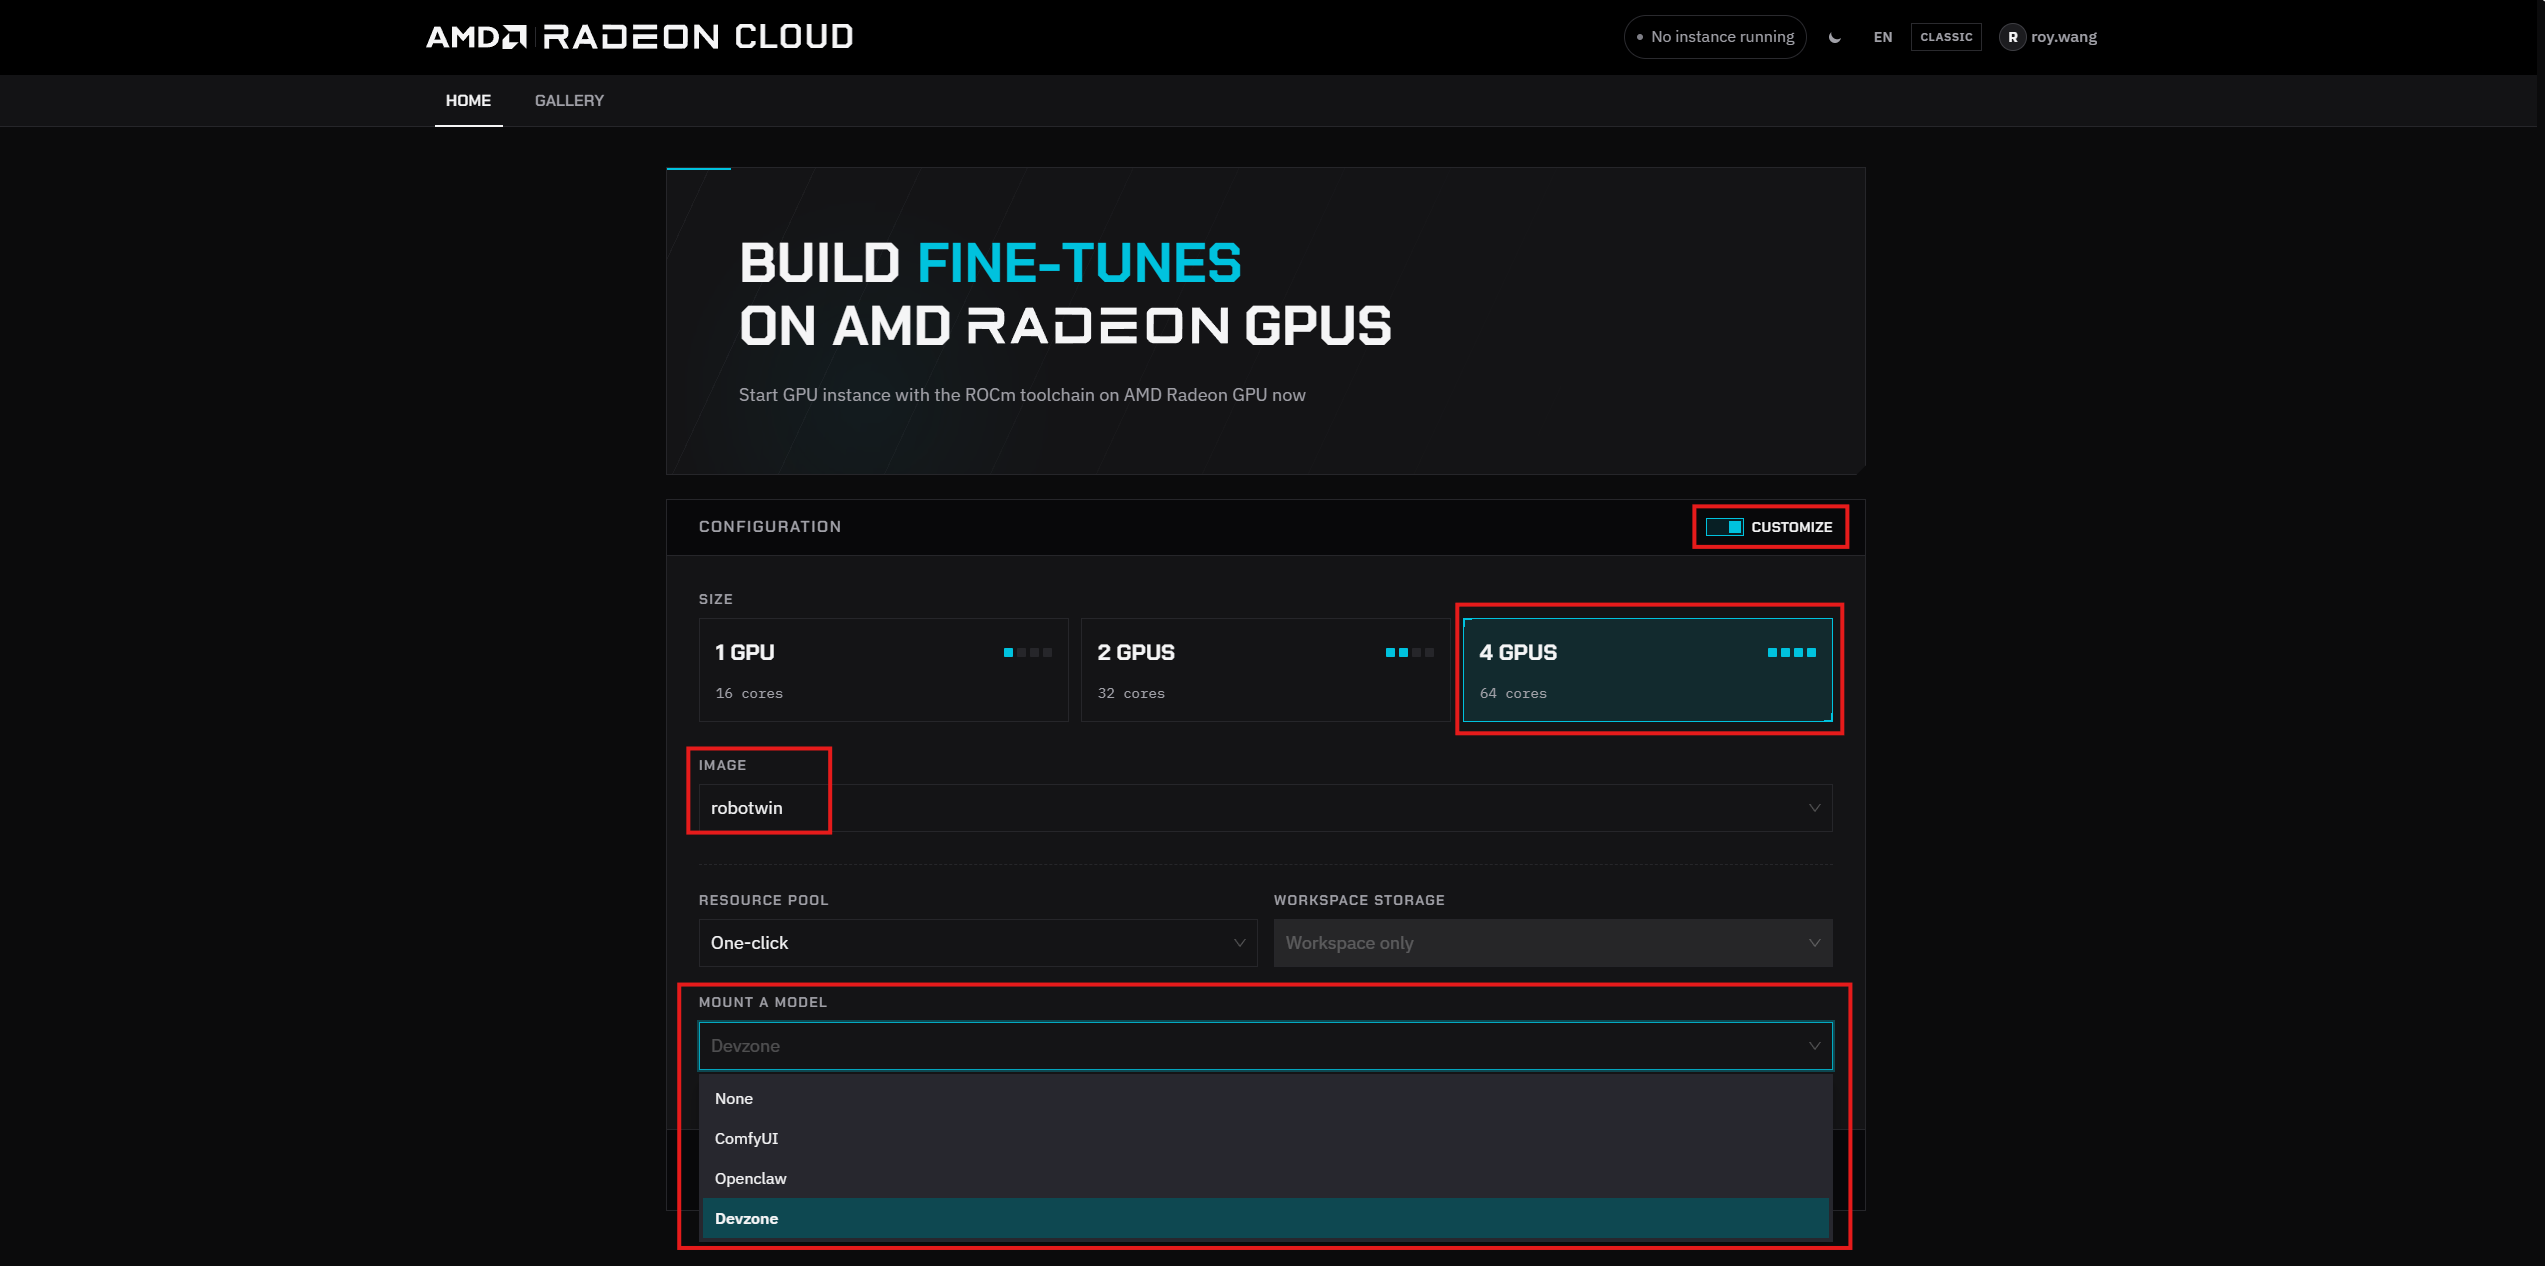
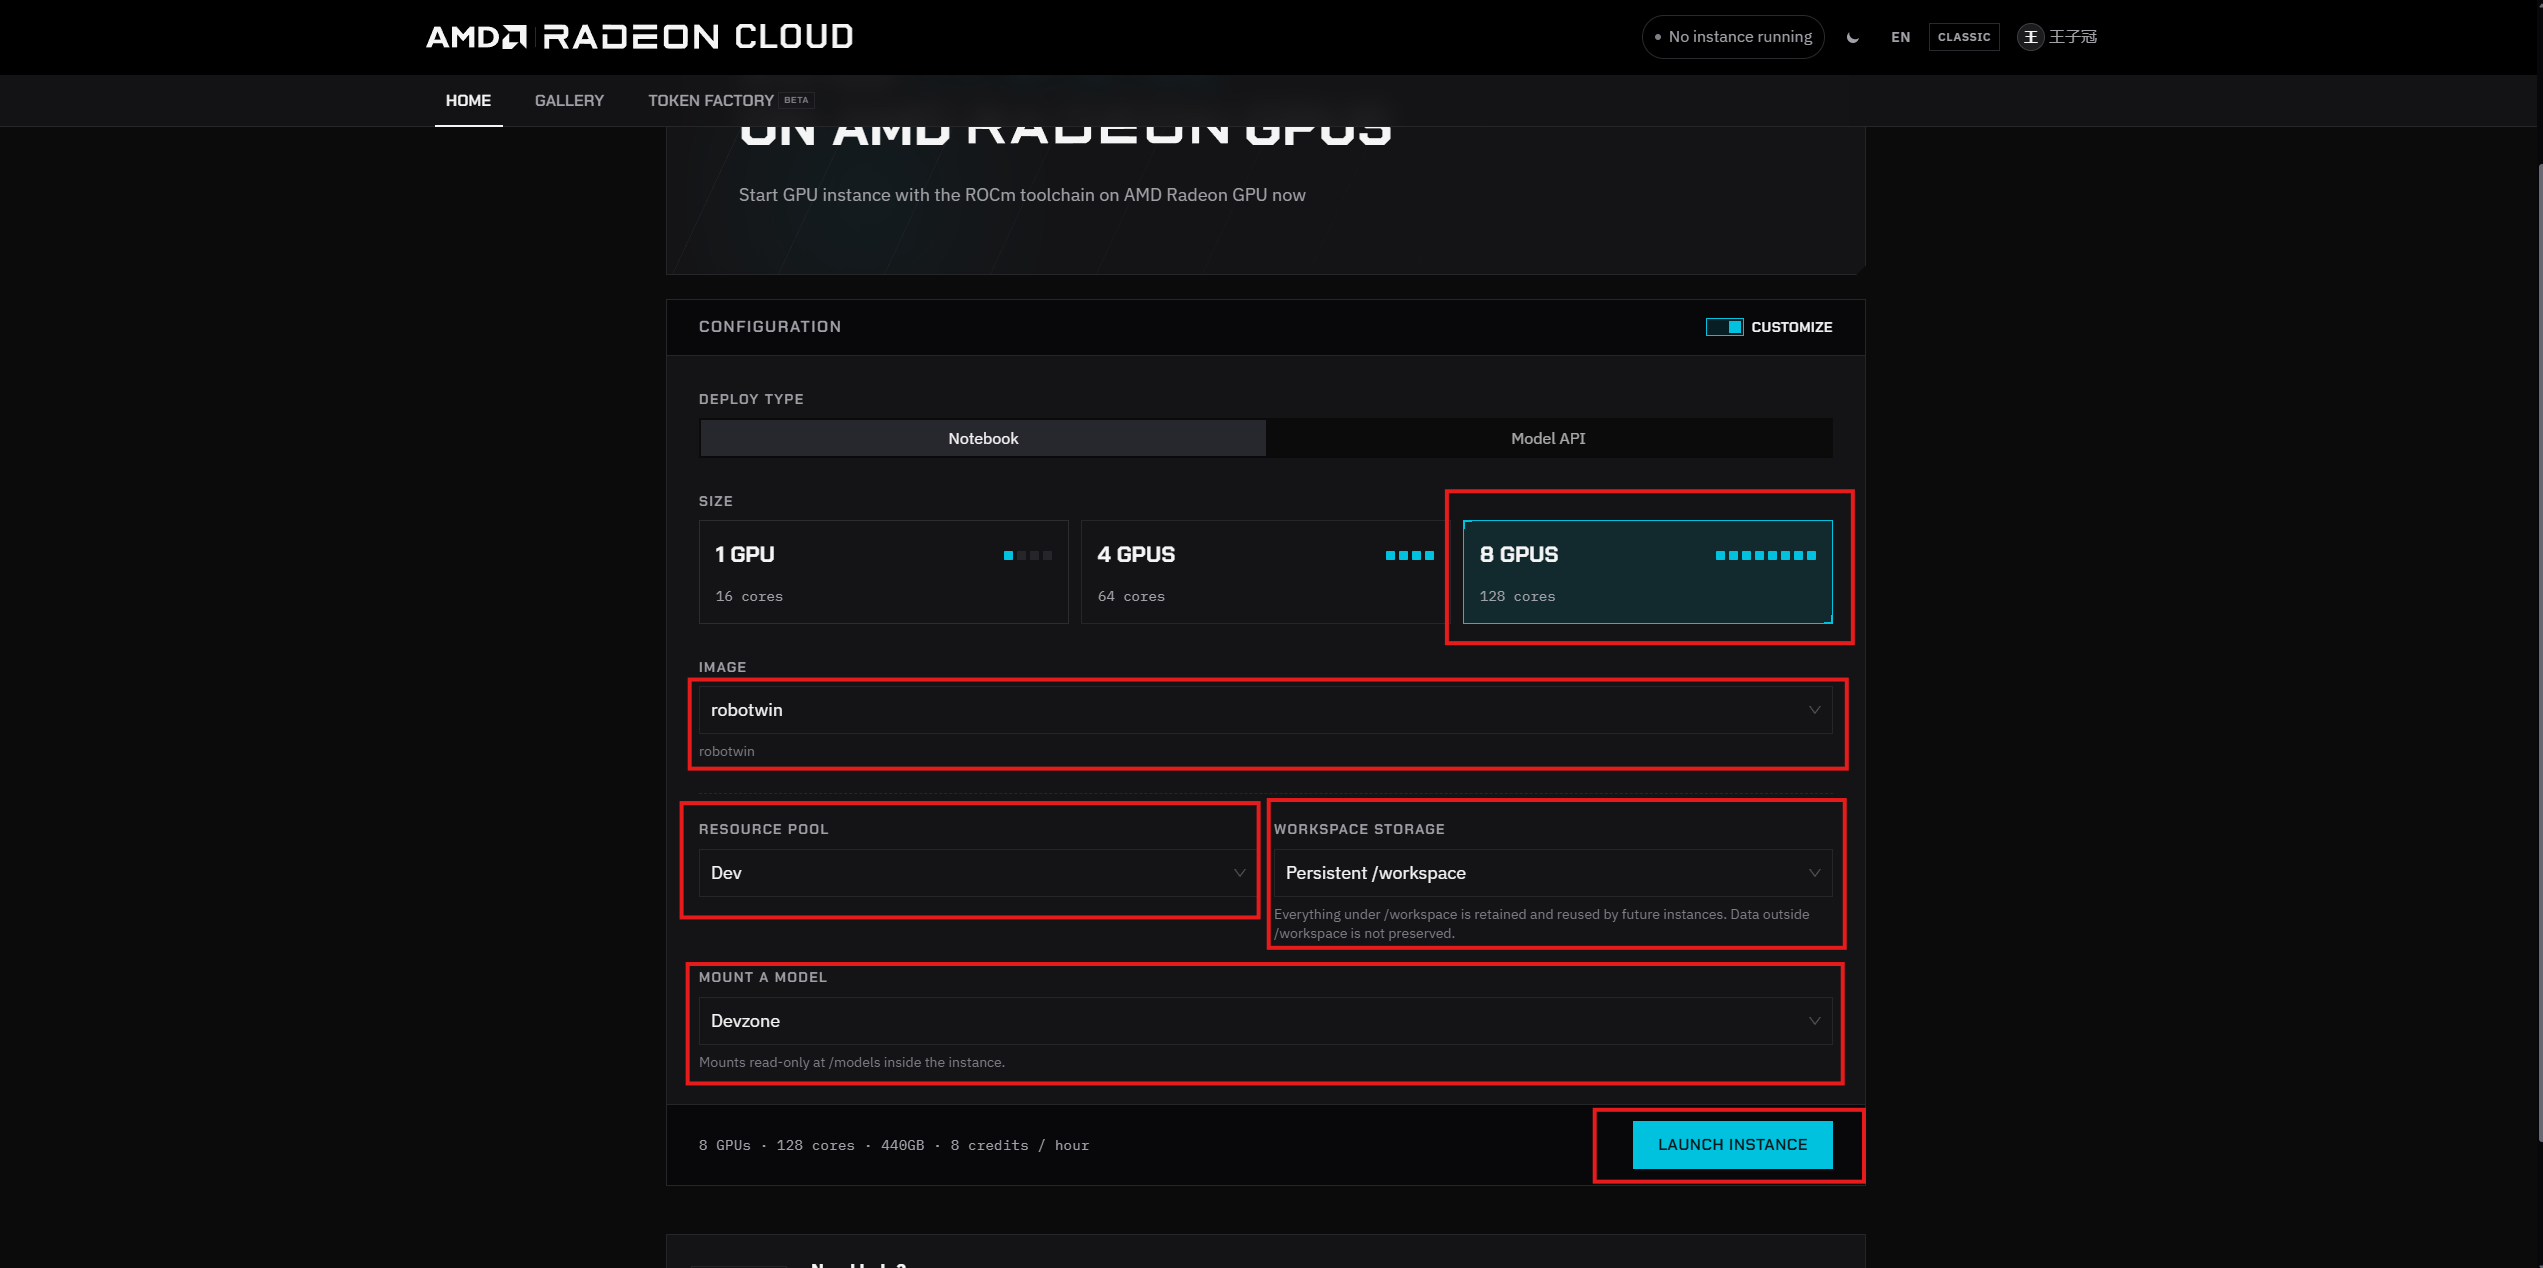
update README

diff --git a/Radeon-Cloud-User-Guide/AMD_VLA_Contest_Compute_Rules_en.md b/Radeon-Cloud-User-Guide/AMD_VLA_Contest_Compute_Rules_en.md
@@ -31,12 +31,12 @@ Teams are expected to perform full-parameter training based on the `lingbot-vla-
 
 ### Evaluation time and credits
 
-The figures below are based on measured results from the clean and randomized evaluation runs in the RoboTwin reproduction workflow: combined, `100 tasks × 10 episodes` takes approximately 18 hours 55 minutes on 4 GPUs and 15 hours 12 minutes on 8 GPUs. `100 tasks × 100 episodes` is estimated at 10 times the duration by scaling linearly with the number of tasks and episodes; credits are calculated by GPU-hour and rounded.
+The estimates below use the current baseline: combined, `100 tasks × 10 episodes` takes approximately 5 hours on 8 GPUs; the 4-GPU time is estimated at about twice the wall-clock time, or 10 hours. `100 tasks × 100 episodes` is estimated at 10 times the duration by scaling linearly with the number of tasks and episodes; credits are calculated by GPU-hour and rounded.
 
 | Evaluation scale | 4-GPU time | 4-GPU credits | 8-GPU time | 8-GPU credits |
 | --- | ---: | ---: | ---: | ---: |
-| `100 tasks × 10 episodes` (clean + randomized) | about 18 h 55 min | about 76 | about 15 h 12 min | about 122 |
-| `100 tasks × 100 episodes` full evaluation (linear estimate) | about 189 h 18 min | about 758 | about 152 h 3 min | about 1,217 |
+| `100 tasks × 10 episodes` | about 10 h | about 40 | about 5 h | about 40 |
+| `100 tasks × 100 episodes` full evaluation (linear estimate) | about 100 h | about 400 | about 50 h | about 400 |
 
 The final `100 tasks × 100 episodes` evaluation will be conducted uniformly by the contest organizers after the contest. The training and evaluation figures above are planning references; actual time may vary due to data loading, environment startup, checkpoint saving, evaluation configuration, and task complexity.
 
@@ -174,7 +174,7 @@ Use: approximately 10k-step training + 50 tasks × 20 episodes quick evaluation
 Stage 2: 1,600 credits
 Use: continued training, multiple 10k-step directional tests, or one complete 30k-step training run
 
-Unified evaluation after the contest: 100 tasks × 100 episodes; about 758 credits/team on 4 GPUs or 1,217 credits/team on 8 GPUs, excluding instance startup, retries, and evaluation failures
+Unified evaluation after the contest: 100 tasks × 100 episodes; about 400 credits/team on either 4 GPUs or 8 GPUs, excluding instance startup, retries, and evaluation failures
 
 Queue unit: team
 Duplicate queue entries by the same team: not allowed

diff --git a/Radeon-Cloud-User-Guide/AMD_VLA_Contest_Compute_Rules.md b/Radeon-Cloud-User-Guide/AMD_VLA_Contest_Compute_Rules.md
@@ -29,12 +29,12 @@
 
 ### 评测耗时与 credits
 
-以下数据根据 RoboTwin 参考复现流程中 clean 与 randomized 两组评测的实测结果整理：合计 `100 task × 10 episodes` 在 4 GPUs 上约需 18 小时 55 分钟，在 8 GPUs 上约需 15 小时 12 分钟。`100 task × 100 episodes` 按任务数和 episodes 数量近似线性估算为 10 倍耗时；credits 按 GPU-hour 计算并取整。
+以下评测时间按照现有基准进行估算：合计 `100 task × 10 episodes` 在 8 GPUs 上约需 5 小时，4 GPUs 按约 2 倍墙钟时间估算为 10 小时。`100 task × 100 episodes` 按任务数和 episodes 数量近似线性估算为 10 倍耗时；credits 按 GPU-hour 计算并取整。
 
 | 评测规模 | 4 GPUs 耗时 | 4 GPUs credits | 8 GPUs 耗时 | 8 GPUs credits |
 | --- | ---: | ---: | ---: | ---: |
-| `100 task × 10 episodes`（clean + randomized） | 约 18 小时 55 分钟 | 约 76 | 约 15 小时 12 分钟 | 约 122 |
-| `100 task × 100 episodes` 完整评测（线性估算） | 约 189 小时 18 分钟 | 约 758 | 约 152 小时 3 分钟 | 约 1,217 |
+| `100 task × 10 episodes` | 约 10 小时 | 约 40 | 约 5 小时 | 约 40 |
+| `100 task × 100 episodes` 完整评测（线性估算） | 约 100 小时 | 约 400 | 约 50 小时 | 约 400 |
 
 最终 `100 task × 100 episodes` 由赛事组在比赛结束后统一执行。上述训练和评测数据均为资源规划参考，实际耗时可能受到数据加载、环境启动、checkpoint 保存、评测配置和任务复杂度影响。
 
@@ -172,7 +172,7 @@
 阶段二：1,600 credits
 用途：继续训练、多个 10k steps 方向测试，或一次完整 30k steps 训练
 
-比赛结束后统一评测：4 GPUs 约 758 credits/队，8 GPUs 约 1,217 credits/队；不含实例启动、任务重试和评测异常等额外开销
+比赛结束后统一评测：4 GPUs 或 8 GPUs 均约 400 credits/队；不含实例启动、任务重试和评测异常等额外开销
 
 排队单位：队伍
 队伍重复排队：不允许

diff --git a/README_en.md b/README_en.md
@@ -38,9 +38,9 @@ Compute resource application form: https://developer.amd.com.cn/contestgpu_apply
 
 ![AMD compute resource application form](./assets/AMD_Compute_Resource_Application_link.png)
 
-### Step 4: Have the team leader submit the GPU resource request
+### Step 4: Have the team submit the GPU resource request
 
-After completing contest registration, AMD Developer Program registration, and joining the official contest group, the team leader may apply for the contest-exclusive Radeon GPU resources. The application must provide the AMD ADP member ID.
+After completing contest registration, AMD Developer Program registration, and joining the official contest group, the team should submit the application for the contest-exclusive Radeon GPU resources. The application must provide the contest registration team ID. Every team member must complete the form. The member list will serve as an important basis for AMD’s assessment of additional resources and for distributing post-contest points and certificates. Compute resources will be queued and allocated by team in the order applications are submitted. Each team may designate only one team leader, who is responsible for receiving contest compute resources and coordinating with AMD.
 
 > **Important:** AMD will provide eligible contest teams with dedicated Radeon GPU credits so that teams can participate in contest development and testing without preparing their own training compute resources. For detailed compute application and usage rules, see the [AMD Compute Application and Usage Rules](./Radeon-Cloud-User-Guide/AMD_VLA_Contest_Compute_Rules_en.md).
 

diff --git a/README.md b/README.md
@@ -38,9 +38,9 @@ https://developer.amd.com.cn/login?source=sSEUZ7cAA
 
 ![AMD 算力申请表入口](./assets/AMD_Compute_Resource_Application_link.png)
 
-### Step 4：由队长提交 GPU 资源申请
+### Step 4：由团队提交 GPU 资源申请
 
-完成赛事报名、AMD 开发者计划注册、并加入官方比赛交流群后，可由队长申请赛事专属 Radeon GPU 资源，申请时需提供AMD ADP会员ID。
+完成赛事报名、AMD 开发者计划注册、并加入官方比赛交流群后，由团队提交赛事专属 Radeon GPU 资源申请，申请时需填写大赛注册团队 ID。请团队每位成员都完成填写。成员名单将作为 AMD 评估额外资源追加、赛后积分与证书发放的重要依据。本次算力以队伍为单位排队发放，按照提交顺序排队，每支队伍仅可指定 1 名队长（负责接收赛事算力资源、与 AMD 对接）。
 
 > **重要：** AMD 将为符合条件的参赛队伍提供专属 Radeon GPU Credits，无需自备训练算力即可参与赛事开发与测试。具体的算力申请与使用规则请参阅 [AMD 算力申请与使用规则](./Radeon-Cloud-User-Guide/AMD_VLA_Contest_Compute_Rules.md)。
 

diff --git a/Radeon-Cloud-User-Guide/README_en.md b/Radeon-Cloud-User-Guide/README_en.md
@@ -52,7 +52,8 @@ After logging in, configure the instance as follows:
 2. Select the GPU count according to your needs: **4 GPUs** or **8 GPUs**.
 3. Select **robotwin** under **Image**.
 4. Under **Resource Pool**, select the resource pool for this competition: **Dev**.
-5. Select **Devzone** under **Mount a model**.
+5. Under **Workspace Storage**, select **Persistent /workspace**.
+6. Select **Devzone** under **Mount a model**.
 
 ![Instance configuration: Customize, 4/8 GPUs, robotwin, and Devzone](./assets/launch.png)
 

diff --git a/Radeon-Cloud-User-Guide/README.md b/Radeon-Cloud-User-Guide/README.md
@@ -52,7 +52,8 @@
 2. 根据实际需求选择 GPU 数量，可选择 **4 GPUs** 或 **8 GPUs**。
 3. 在 **Image** 中选择 **robotwin**。
 4. 在 **Resource Pool** 中选择本次比赛对应的资源池 **Dev**。
-5. 在 **Mount a model** 中选择 **Devzone**。
+5. 在 **Workspace Storage** 中选择 **Persistent /workspace**。
+6. 在 **Mount a model** 中选择 **Devzone**。
 
 ![实例配置：Customize、4/8 GPUs、robotwin 和 Devzone](./assets/launch.png)
 
